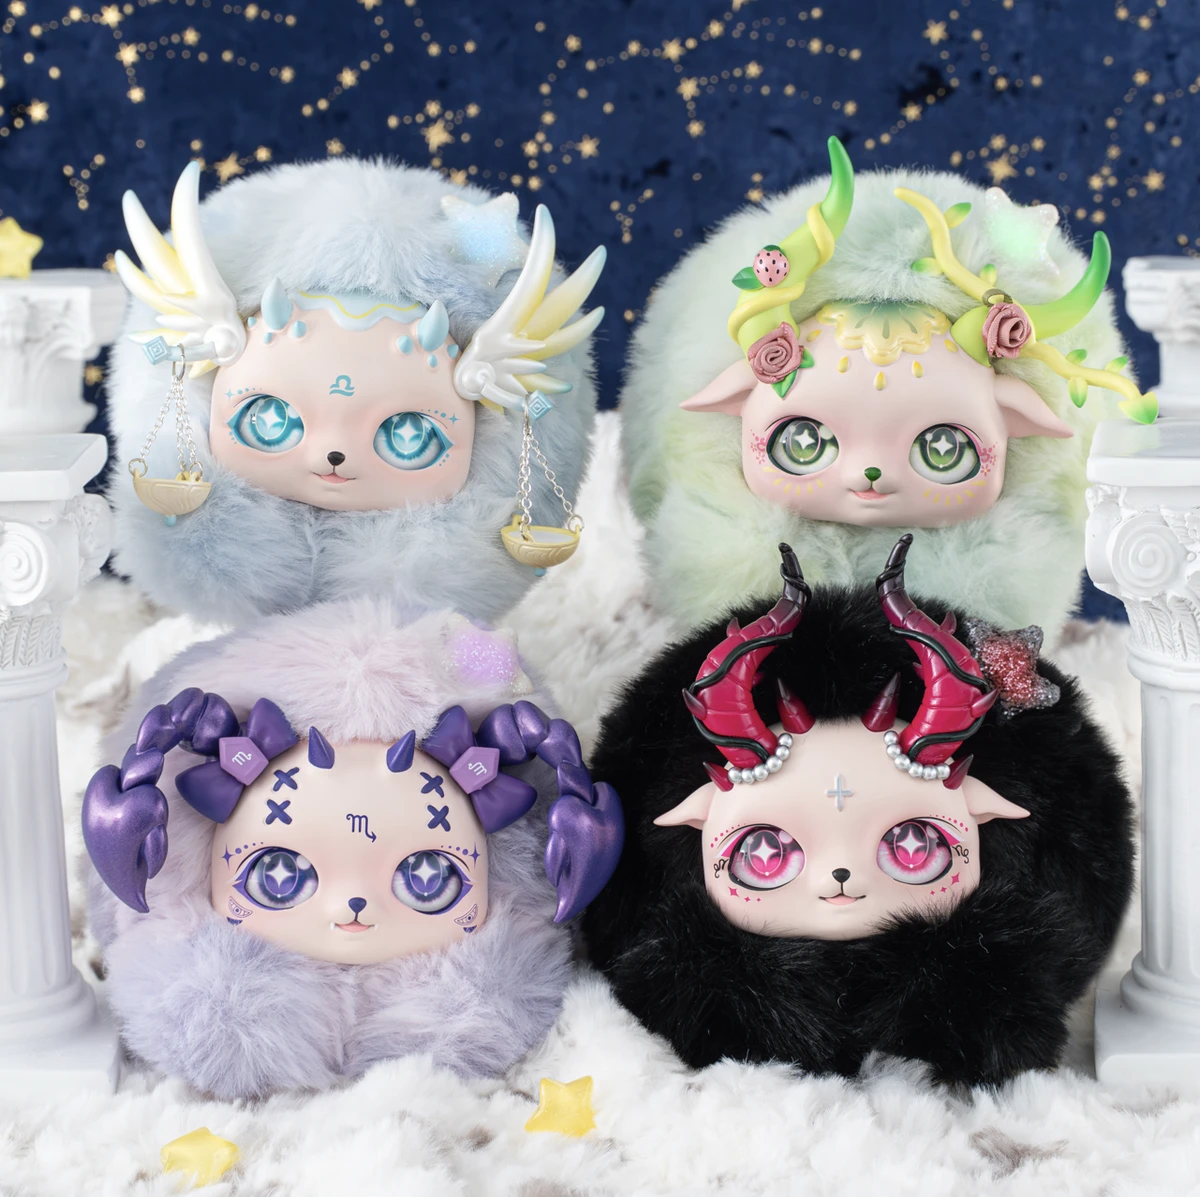
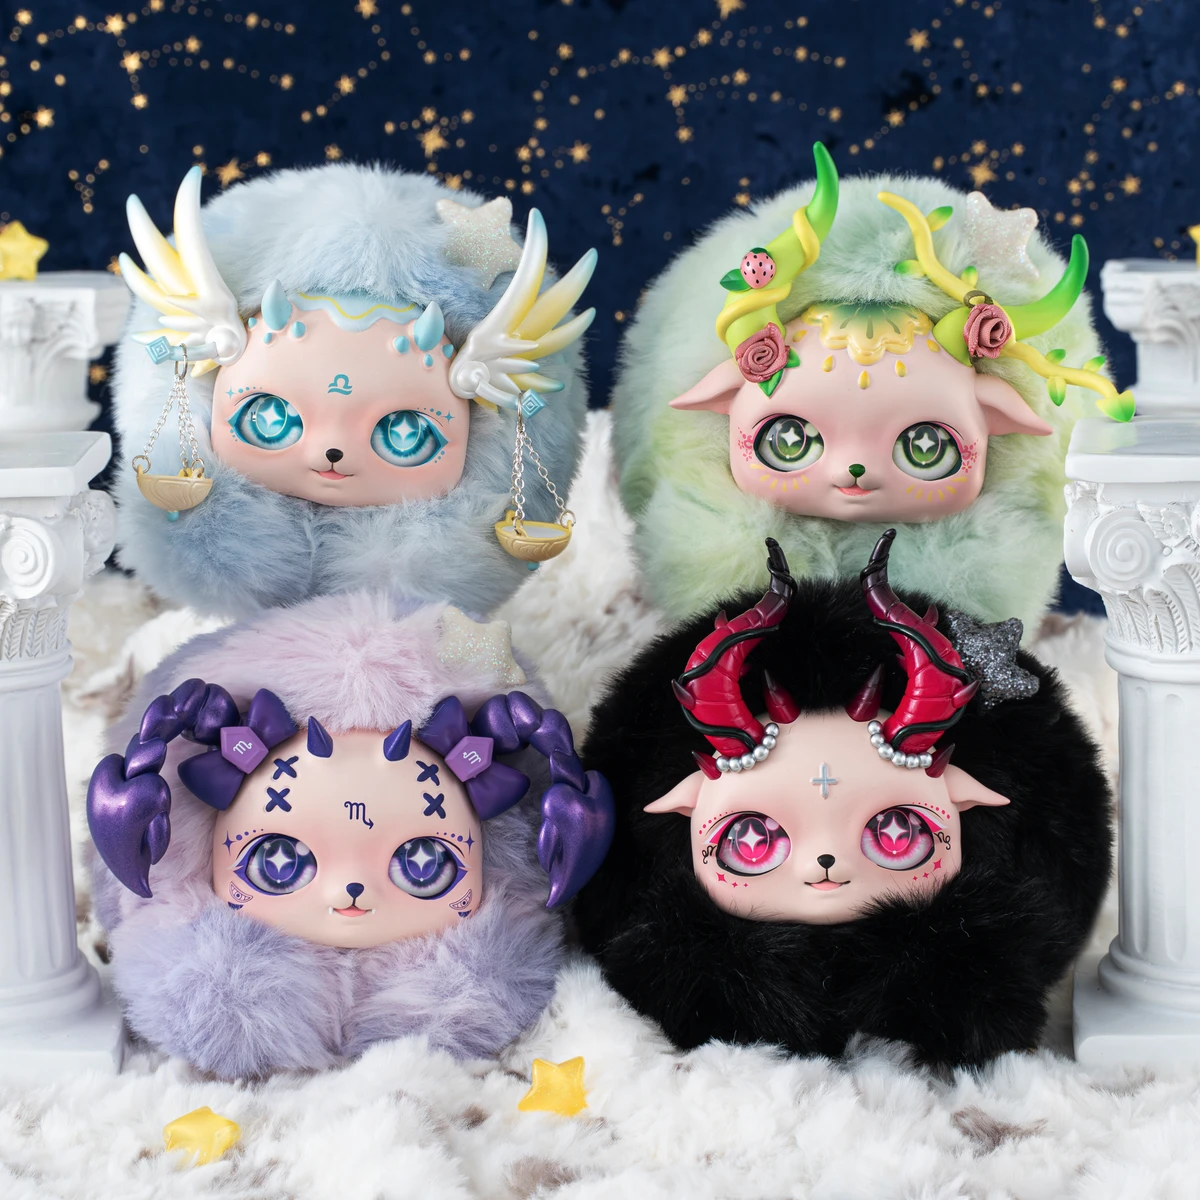
Optimize product images and remove PNG versions
- Replace PNG product images with optimized WebP versions
- Update all product WebP images with better compression
- Remove original PNG files to reduce repository size
- Add compress-product-images.js script for image optimization

This change reduces image file sizes while maintaining visual quality,
improving page load performance.

🤖 Generated with [Claude Code](https://claude.com/claude-code)

diff --git a/scripts/compress-product-images.js b/scripts/compress-product-images.js
@@ -1,0 +1,45 @@
+import sharp from 'sharp';
+import path from 'path';
+import { fileURLToPath } from 'url';
+
+const __filename = fileURLToPath(import.meta.url);
+const __dirname = path.dirname(__filename);
+
+const productDir = path.join(__dirname, '..', 'public', 'images', 'product');
+
+// 按照用户指定的顺序
+const imageMapping = [
+  { input: '星座集合.png', output: 'product-1.webp' },
+  { input: '天秤座.png', output: 'product-2.webp' },
+  { input: '天蝎座.png', output: 'product-3.webp' },
+  { input: '射手座.png', output: 'product-4.webp' },
+  { input: '摩羯座.png', output: 'product-5.webp' }
+];
+
+async function compressImage(inputFile, outputFile) {
+  try {
+    const inputPath = path.join(productDir, inputFile);
+    const outputPath = path.join(productDir, outputFile);
+
+    await sharp(inputPath)
+      .resize(1200, 1200, { fit: 'inside', withoutEnlargement: true })
+      .webp({ quality: 90 })
+      .toFile(outputPath);
+
+    console.log(`✓ ${inputFile} -> ${outputFile}`);
+  } catch (error) {
+    console.error(`✗ Error processing ${inputFile}:`, error.message);
+  }
+}
+
+async function main() {
+  console.log('🚀 Compressing product images...\n');
+
+  for (const { input, output } of imageMapping) {
+    await compressImage(input, output);
+  }
+
+  console.log('\n✅ All product images compressed!');
+}
+
+main().catch(console.error);
